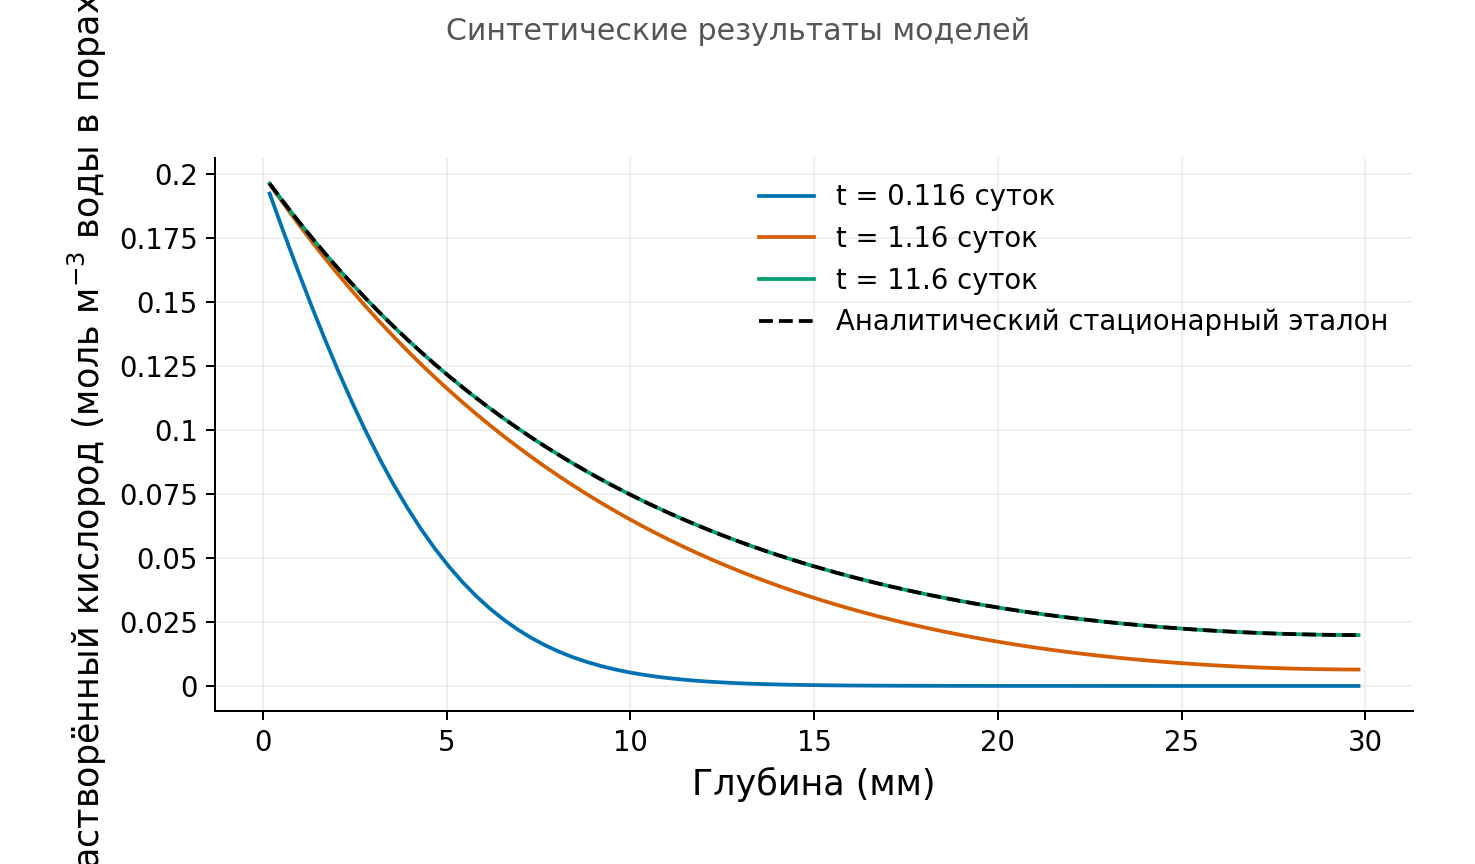
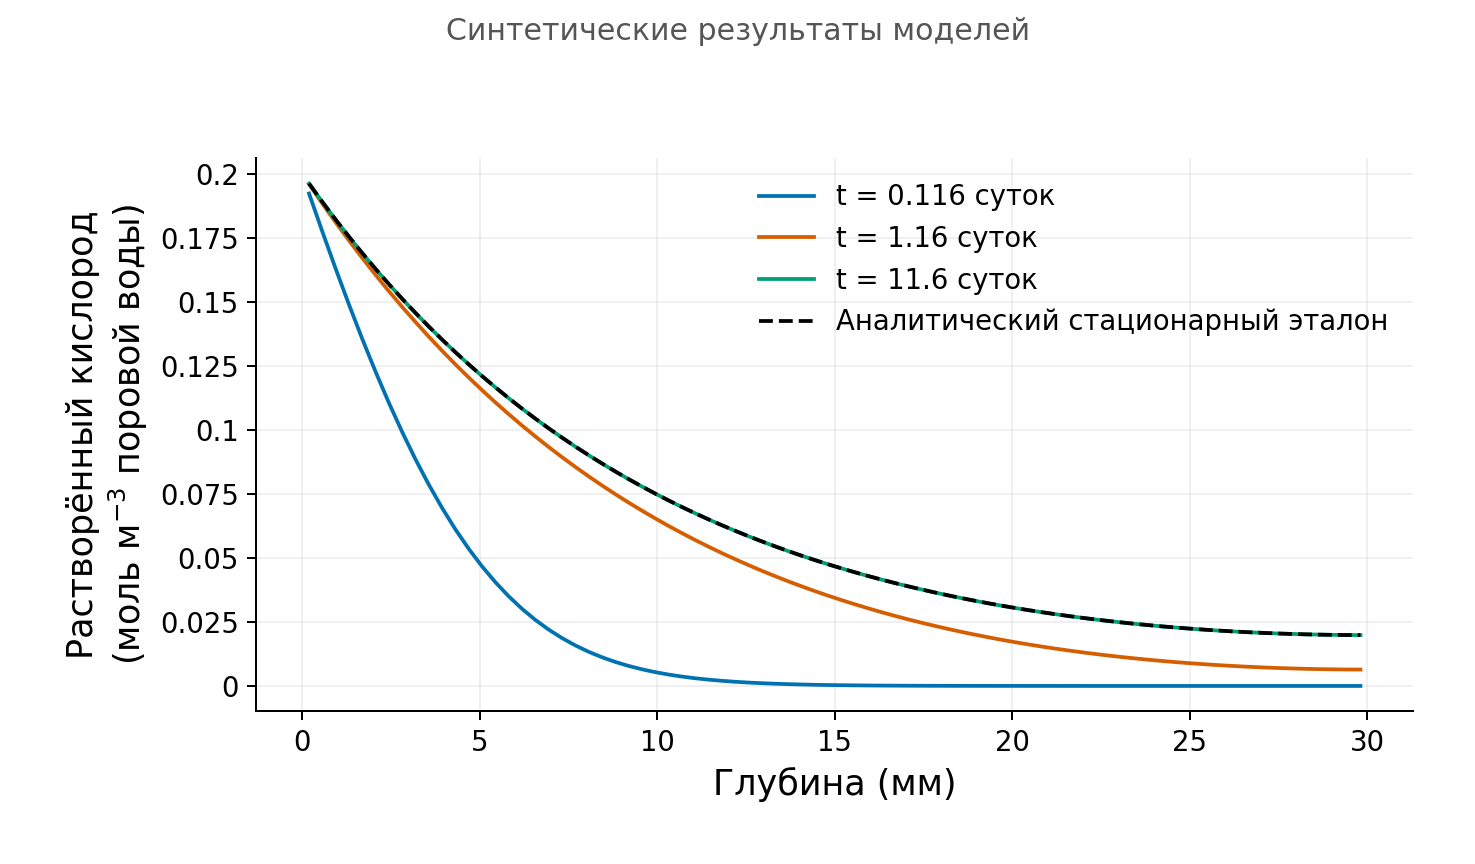
fix(modeling): keep oxygen labels visible and clarify graph supports
Wrap the Russian oxygen axis label so its full unit and porewater basis fit inside the figure. Clarify cell-centre reference support and cumulative Gibbs state loss in both guides.

The graph coordinates, equations, printed values and numerical companion data are unchanged.

diff --git a/courses/modeling-guide/modeling-guide-ru.md b/courses/modeling-guide/modeling-guide-ru.md
@@ -92,7 +92,7 @@ $$
 
 Сохранённый запуск использует 80 одинаковых ячеек и $\Delta t=1000\,\mathrm{s}$, снимки при $10000$, $100000$, $1000000\,\mathrm{s}$. Конечные объёмы балансируют каждый слой. Верхний поток использует половинное расстояние ячейки, внутренние общие потоки сокращаются в сумме. Метод Эйлера назад оценивает диффузию и сток на новом уровне. Здесь состояния неотрицательны без отсечения, но большой шаг всё равно может быть неточным.
 
-![Кислород в центрах ячеек в три момента запуска. Глубина расположена по горизонтали, концентрация задана на объём поровой воды. Штриховая кривая является стационарным аналитическим эталоном конечной области, не точным переходным решением. Время подписано в сутках.](figures/ru/oxygen-depth-profiles.png)
+![Кислород в центрах ячеек в три момента запуска. Глубина расположена по горизонтали, концентрация задана на объём поровой воды. Штриховая кривая является стационарным аналитическим эталоном конечной области, не точным переходным решением. Аналитические значения вычислены в центрах ячеек, не точно усреднены по каждой ячейке. Время подписано в сутках; неразличимая с нулём кривая на линейной шкале не означает точного исчерпания.](figures/ru/oxygen-depth-profiles.png)
 
 Сначала предскажите: диффузия пополняет поверхностные слои, постоянный сток удаляет кислород. Профиль растёт к стационарному. Этот рост означает накопление; только близко к стационарности вход можно приравнять потреблению. На нулевой глубине не добавлено вымышленное значение. Сульфат и метан не являются связанными состояниями этого расчёта.
 
@@ -351,7 +351,7 @@ $$
 
 ### Чтение состояния и энергии
 
-![Прямой расчёт с шагом 100 с до 80000 с (22.2 ч). Слева концентрации A и B и независимо сохранённый эталон B на 401 снимке. Справа оставшаяся доступная энергия Гиббса и её снижение в J. Численные концы шагов отличаются по носителю от эталонных снимков.](figures/ru/energy-state-and-availability.png)
+![Прямой расчёт с шагом 100 с до 80000 с (22.2 ч). Слева концентрации A и B и независимо сохранённый эталон B на 401 снимке. Справа оставшаяся доступная энергия Гиббса и её снижение в J. Снижение состояния является накопленной потерей доступной энергии Гиббса, не независимо интегрированной суммой оценок мощности на концах шагов. Малый ненулевой остаток доступной энергии неразличим на линейной шкале. Численные концы шагов отличаются по носителю от эталонных снимков.](figures/ru/energy-state-and-availability.png)
 
 Сначала предскажите: A уменьшается, B растёт, сумма остаётся постоянной. Начальная доступность 2.06 J теряется при приближении к равновесию. Две энергетические кривые разделяют её учёт, не показывают устройство получения работы. Обратный старт приближается к тому же равновесию с другой стороны в отдельном сохранённом случае.
 

diff --git a/courses/modeling-guide/modeling-guide-en.md b/courses/modeling-guide/modeling-guide-en.md
@@ -92,7 +92,7 @@ The analytical bottom concentration is $19.9\,\mu\mathrm{mol\,L^{-1}}$ and inwar
 
 The saved startup uses 80 equal cells and $\Delta t=1000\,\mathrm{s}$, with profiles at $10000$, $100000$ and $1000000\,\mathrm{s}$. Finite volumes balance each layer. The top flux uses the half-cell distance; internal shared fluxes cancel when summed. Backward Euler evaluates diffusion and consumption at the new time level. It preserves nonnegative states here without clipping, while large steps can still give inaccurate transients.
 
-![Oxygen at three saved startup times, at numerical cell centres. Depth is horizontal and concentration is per porewater volume. The dashed curve is a finite-domain steady analytical reference, not an exact transient. Times are displayed in days.](figures/en/oxygen-depth-profiles.png)
+![Oxygen at three saved startup times, at numerical cell centres. Depth is horizontal and concentration is per porewater volume. The dashed curve is a finite-domain steady analytical reference, not an exact transient. The analytical values are evaluated at cell centres, not exactly averaged over each cell. Times are displayed in days; a curve indistinguishable from zero on this linear scale does not establish exact depletion.](figures/en/oxygen-depth-profiles.png)
 
 Predict first: diffusion replenishes the surface layers while the fixed sink removes oxygen. The startup profile grows toward the steady curve. Read this growth as accumulation; only near steady state can inward flux be equated directly to total consumption. No boundary sample at zero depth is invented. Sulfate and methane are not coupled states in this calculation.
 
@@ -351,7 +351,7 @@ For the saved forward run at $100\,\mathrm{s}$, the first endpoint has $c_{\math
 
 ### Read state and energy graphs
 
-![The saved forward 100 s run, through 80000 s (22.2 h). Left: A and B concentrations, with the independently saved B reference on its 401-snapshot support. Right: remaining Gibbs availability and its state decrease, in J. Native numerical endpoints and snapshot-reference support remain distinct.](figures/en/energy-state-and-availability.png)
+![The saved forward 100 s run, through 80000 s (22.2 h). Left: A and B concentrations, with the independently saved B reference on its 401-snapshot support. Right: remaining Gibbs availability and its state decrease, in J. The state decrease is the cumulative loss of Gibbs availability, not an independently integrated sum of endpoint-power proxies. Tiny remaining availability is visually unresolved on this linear scale. Native numerical endpoints and snapshot-reference support remain distinct.](figures/en/energy-state-and-availability.png)
 
 Predict first: A decreases, B increases and their sum stays fixed. Initial availability is 2.06 J; the state approaches equilibrium and loses that availability. The two energy curves partition the initial availability, rather than showing a device harvesting work. The reverse start approaches the same equilibrium from the other side in its separate saved case.
 
